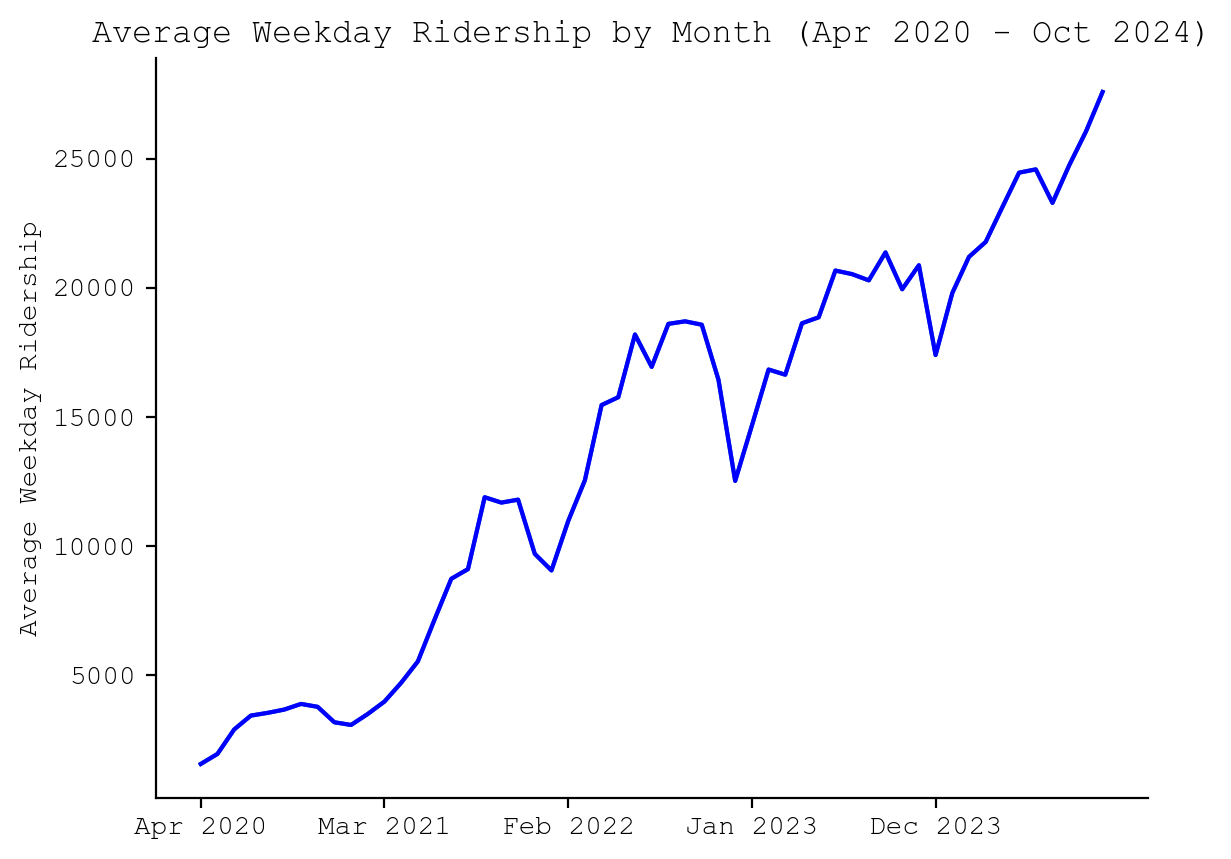
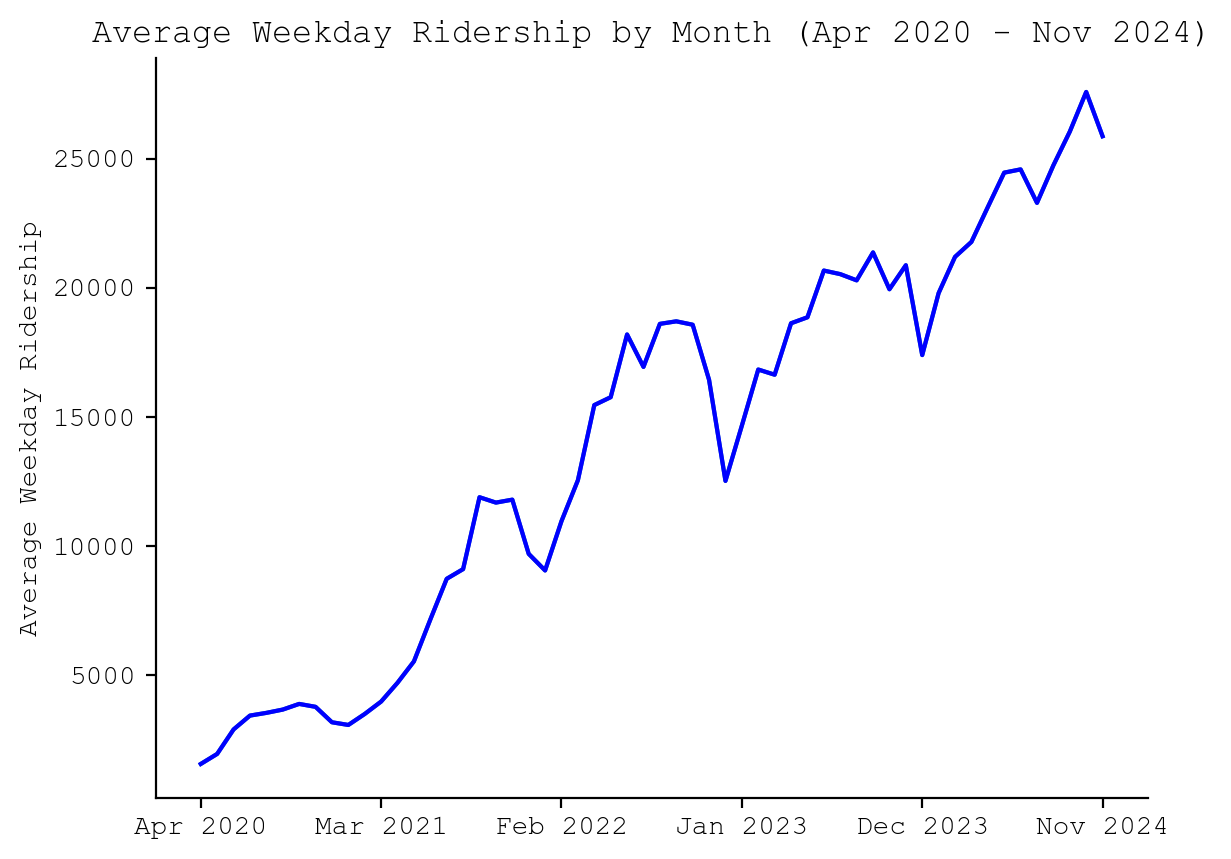
nov 2024

diff --git a/site/index.html b/site/index.html
@@ -9,15 +9,15 @@
 </head>
 <body>
     <h1>Caltrain Ridership</h1>
-    <p><em>Last updated: 2024-11-09</em></p>    
+    <p><em>Last updated: 2024-12-11</em></p>    
     <div class="news">
         <p>
             If you're on desktop, Caltrain's new ridership web page has detailed and mostly up-to-date ridership data: <a href="https://www.caltrain.com/about-caltrain/statistics-reports/ridership/fare-media-based">https://www.caltrain.com/about-caltrain/statistics-reports/ridership/fare-media-based</a>. Unfortunately that page does not work on mobile.
         </p>
     </div>
     <p>
-        This site contains graphs and a table of Caltrain's average weekday ridership from Jul 2017 to Oct 2024 sourced from <a href="https://www.caltrain.com/about-caltrain/statistics-reports/ridership/fare-media-based">Fare Media Sales-Based Ridership Estimates</a> and JPB Citizens Advisory Committee documents.
-        Average weekday ridership is reported with a 1-month lag, so the most recent data is from Oct 2024.
+        This site contains graphs and a table of Caltrain's average weekday ridership from Jul 2017 to Nov 2024 sourced from <a href="https://www.caltrain.com/about-caltrain/statistics-reports/ridership/fare-media-based">Fare Media Sales-Based Ridership Estimates</a> and JPB Citizens Advisory Committee documents.
+        Average weekday ridership is reported with a 1-month lag, so the most recent data is from Nov 2024.
     </p>
     <p>
         You can find a <a href="https://github.com/iechevarria/caltrain-ridership/blob/main/ridership.csv">CSV</a> of Caltrain's average weekday ridership and the script to generate this site on <a href="https://github.com/iechevarria/caltrain-ridership">GitHub</a>.
@@ -31,6 +31,10 @@
     <tr>
         <td>Month</td>
         <td>Average weekday ridership</td>
+    </tr>
+    <tr>
+        <td>Nov 2024</td>
+        <td>25867</td>
     </tr>
     <tr>
         <td>Oct 2024</td>
